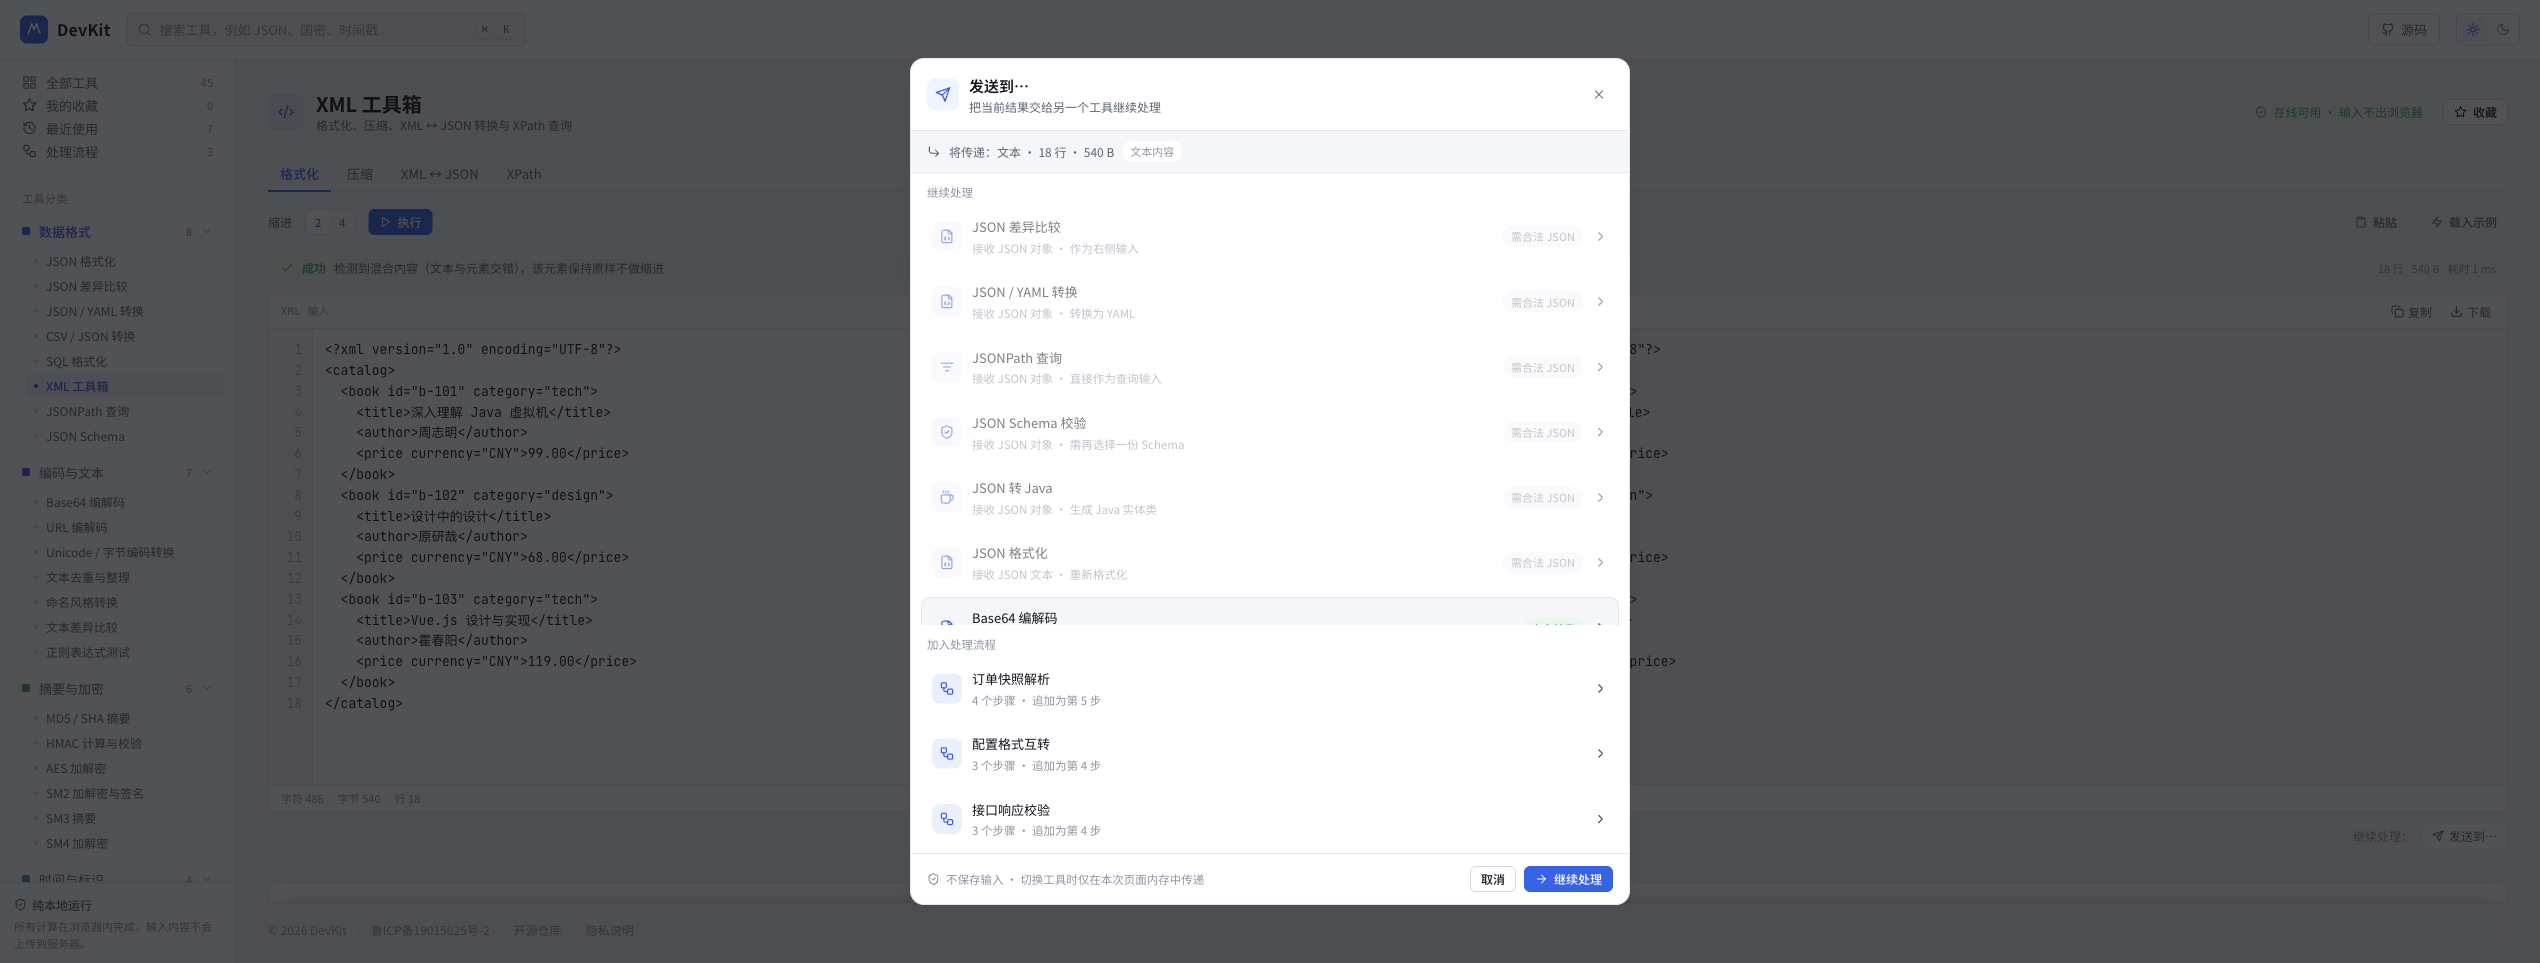
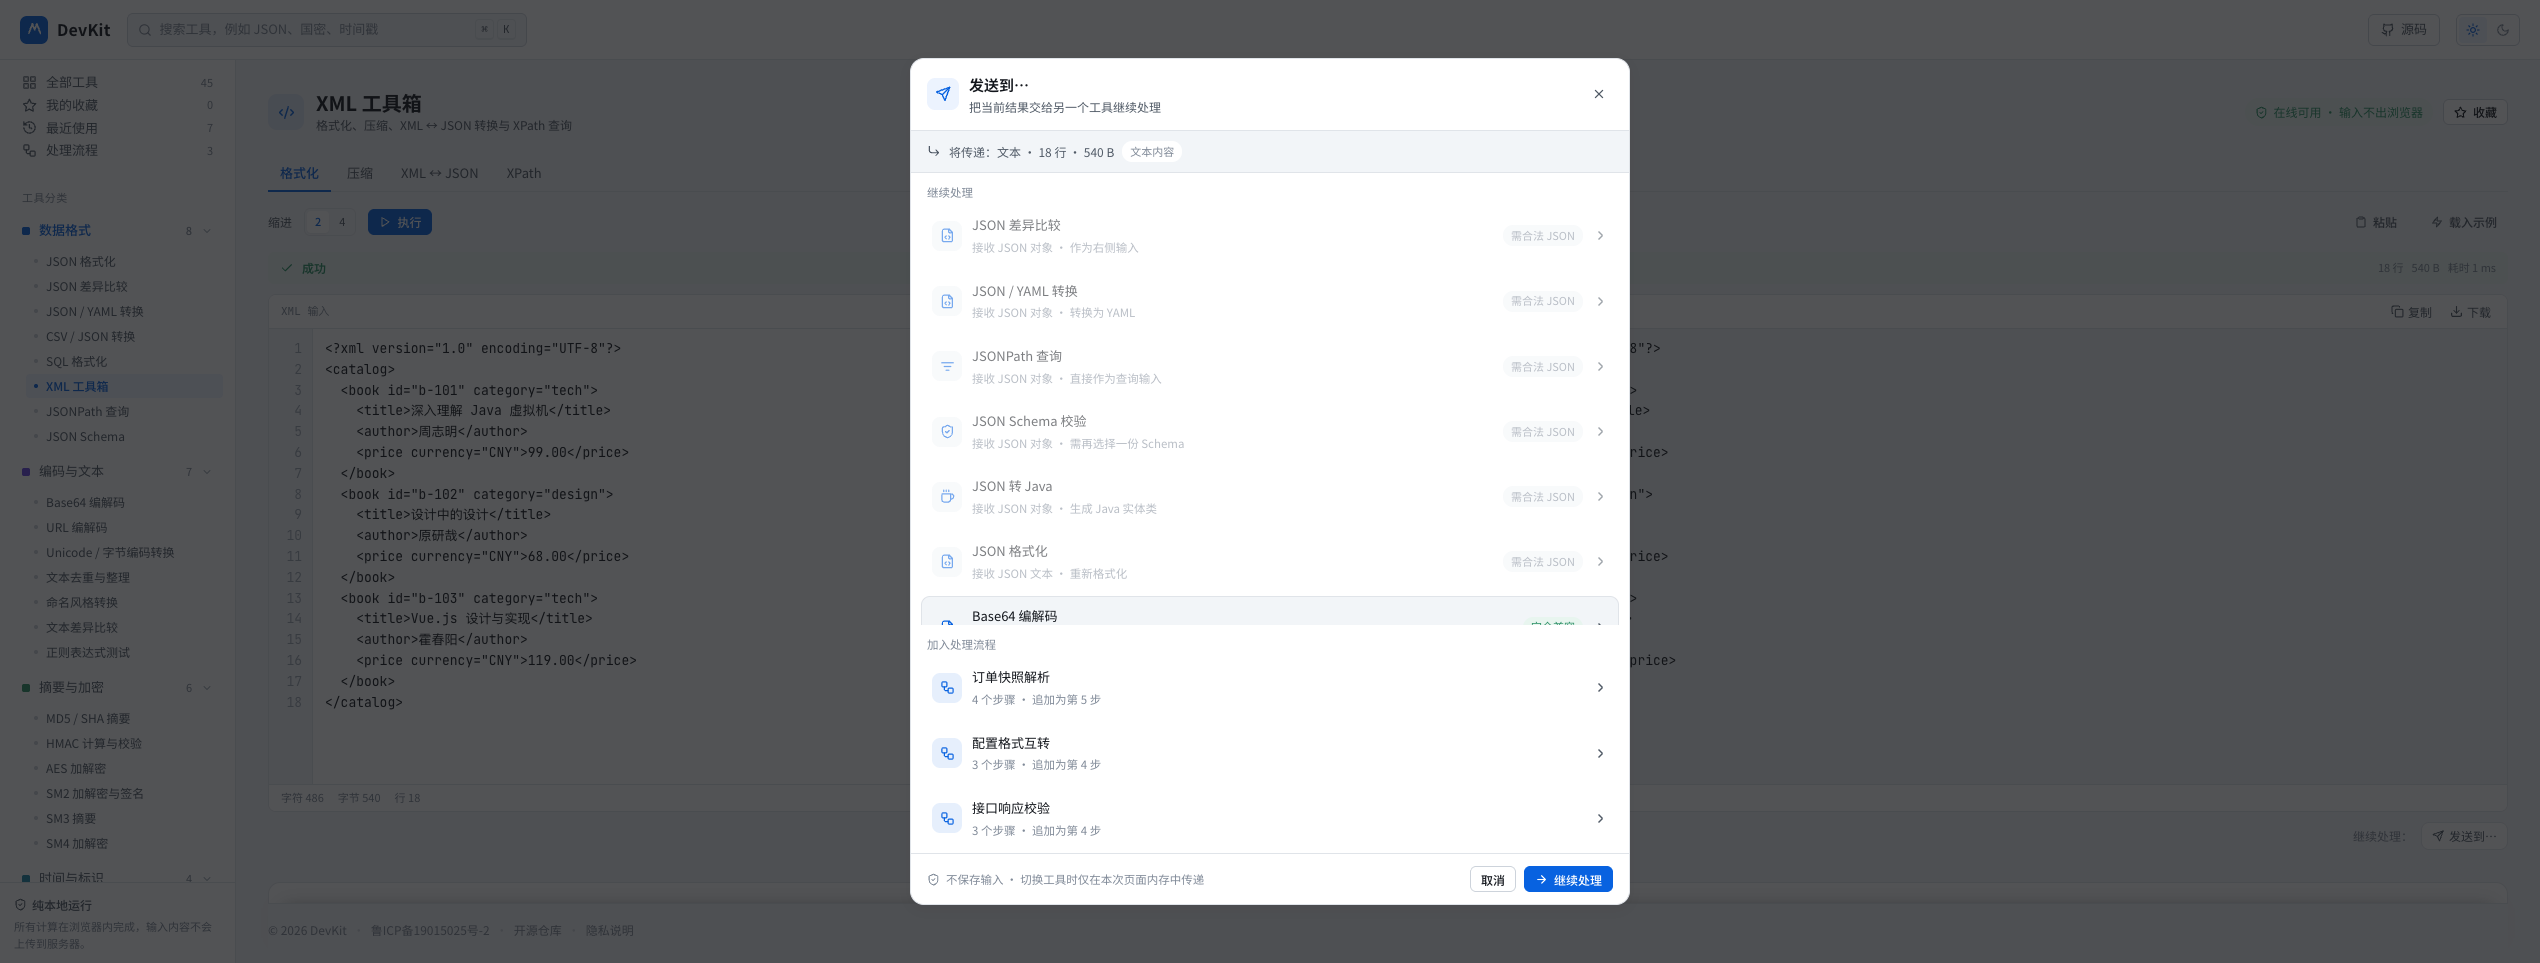
fix(datakit): 修掉复审三条残余——XPath 同值兄弟定位、XML 叶子空白、压缩括号空格
复审残余（均带回归用例）
- SQL 压缩：括号前后与格式化对齐——只在关键字后留空（IN (1, 2) / VALUES (…)），
  函数调用压成 count(*)、f(x, y)；新增 needsSpaceBetween，字面量规则不变。
- XML 空白：hasSignificantText 改为「纯空白只有在元素之间存在换行缩进时才可重排，
  其余一律保留」，叶子元素 <a> </a> / <a>\n</a> 不再被吃成 <a/>；
  同时只在元素确有元素子节点时才提示「检测到混合内容」，叶子文本元素不再误报。
- XPath 定位：新增 searchInSpan，文本 / 属性分支从 max(所属区间起点, 游标) 搜索、
  失败退回区间起点；<r>x<!--c-->x</r> 的 //r/text() 由 [3,4],[3,4] 变为 [3,4],[12,13]，
  同值属性与 <r>one<b>one</b>one</r> 的三段文本也各自定位。

测试与验收：npm test 119（原 115）、npm run test:dom 42（原 35）、typecheck 真实退出码 0、
generate 131 路由 + PWA precache 309、crawl 双视口各 68 路由 0 pageerror / 0 横向溢出、
三条 e2e（receivers / fixes / append_once）重跑退出 0 且前置条件全真。

diff --git a/devkit/app/utils/xml.ts b/devkit/app/utils/xml.ts
@@ -51,22 +51,26 @@ function escapeAttr(s: string): string {
   return escapeText(s).replace(/"/g, '&quot;')
 }
 
+/** 元素子节点里有没有元素（决定一段纯空白是不是「元素之间的缩进」） */
+function hasElementChildren(el: Element): boolean {
+  return Array.from(el.childNodes).some((n) => n.nodeType === 1)
+}
+
 /**
  * 元素是否含“有意义的文本”（即混合内容）：这类元素绝不重排空白，整段原样序列化。
  * - 含非空白文本、或含 CDATA → 有意义；
- * - 纯空白且元素没有子元素 → 视为可忽略（<a>   </a> 与 <a/> 同样处理）；
- * - 纯空白、不含换行、旁边又有子元素 → 有意义：<p><em>a</em> <em>b</em></p> 里的空格是词语分隔符，
- *   删掉会把 a、b 粘成一个词；只有含换行的空白才当作缩进丢弃。
+ * - 纯空白只有在「元素之间的换行缩进」时才算可重排（<a>\n  <b/>\n</a> → <a><b/></a>）；
+ * - 其余纯空白一律保留：<p><em>a</em> <em>b</em></p> 里的空格是词语分隔符，
+ *   而叶子元素里的空白（<a> </a>）删掉就是改数据。
  */
 function hasSignificantText(el: Element): boolean {
-  const hasElementChild = Array.from(el.childNodes).some((n) => n.nodeType === 1)
+  const hasChildren = hasElementChildren(el)
   return Array.from(el.childNodes).some((n) => {
-    if (n.nodeType !== 3 && n.nodeType !== 4) return false
     if (n.nodeType === 4) return true
+    if (n.nodeType !== 3) return false
     const value = n.nodeValue ?? ''
     if (value.trim() !== '') return true
-    if (!hasElementChild) return false
-    return !/[\r\n]/.test(value)
+    return !(hasChildren && /[\r\n]/.test(value))
   })
 }
 
@@ -99,7 +103,8 @@ function writeNode(node: Node, depth: number, indent: string, out: string[], war
 
   // 混合内容：一个空白都不动、一个换行都不加，保证 textContent 与原文一致
   if (hasSignificantText(el)) {
-    if (!warnings.includes('检测到混合内容（文本与元素交错），该元素保持原样不做缩进')) {
+    // 只有真「文本与元素交错」才提示；叶子元素里的空白属正常保留，不报混合内容
+    if (hasElementChildren(el) && !warnings.includes('检测到混合内容（文本与元素交错），该元素保持原样不做缩进')) {
       warnings.push('检测到混合内容（文本与元素交错），该元素保持原样不做缩进')
     }
     out.push(pad + serializeExact(el))
@@ -140,7 +145,7 @@ export function minifyXml(text: string): XmlResult {
   const walk = (el: Element) => {
     for (const child of Array.from(el.children)) walk(child)
     if (hasSignificantText(el)) {
-      if (!warnings.includes('检测到混合内容（文本与元素交错），该元素保持原样不做压缩')) {
+      if (hasElementChildren(el) && !warnings.includes('检测到混合内容（文本与元素交错），该元素保持原样不做压缩')) {
         warnings.push('检测到混合内容（文本与元素交错），该元素保持原样不做压缩')
       }
       return
@@ -383,6 +388,16 @@ function searchIn(source: string, needle: string, from: number, to: number): num
 }
 
 /**
+ * 在所属元素区间内定位一段内容：先从游标之后找，找不到再退回区间开头。
+ * 文本 / 属性分支若总从区间开头找，同一元素里两个值相同的兄弟文本节点
+ * （<r>x<!--c-->x</r>）会一起指向第一个，重复定位。
+ */
+function searchInSpan(source: string, needle: string, from: number, to: number, cursor: number): number {
+  const afterCursor = searchIn(source, needle, Math.max(from, cursor), to)
+  return afterCursor >= 0 ? afterCursor : searchIn(source, needle, from, to)
+}
+
+/**
  * 在源文本中定位节点：元素优先用扫描配对出的区间（嵌套同名也能各自对应自己），
  * 属性 / 文本节点优先在所属元素的区间内搜索，全部失败再退回原来的游标搜索。
  */
@@ -409,7 +424,7 @@ function locate(
     const needle = `${a.name}="${a.value}"`
     const owner = a.ownerElement ? spans?.get(a.ownerElement) : undefined
     if (owner) {
-      const inOwner = searchIn(source, needle, owner.from, owner.to)
+      const inOwner = searchInSpan(source, needle, owner.from, owner.to, cursor)
       if (inOwner >= 0) return { from: inOwner, to: inOwner + needle.length }
     }
     let at = source.indexOf(needle, cursor)
@@ -421,7 +436,7 @@ function locate(
   const parent = node.parentElement
   const parentSpan = parent ? spans?.get(parent) : undefined
   if (parentSpan) {
-    const inParent = searchIn(source, text, parentSpan.from, parentSpan.to)
+    const inParent = searchInSpan(source, text, parentSpan.from, parentSpan.to, cursor)
     if (inParent >= 0) return { from: inParent, to: inParent + text.length }
   }
   let at = source.indexOf(text, cursor)

diff --git a/devkit/app/utils/sql.ts b/devkit/app/utils/sql.ts
@@ -498,6 +498,17 @@ export function formatSql(sql: string, opts: SqlFormatOptions): SqlFormatResult 
 }
 
 /**
+ * 两个 token 之间要不要留空格：与格式化同一条规则——括号只在关键字之后留
+ * （IN (…) / VALUES (…)），函数调用 count(*) 后面不留；其余按标点集合判定。
+ */
+function needsSpaceBetween(prev: Tok, next: Tok): boolean {
+  if (next.text === '(') return prev.type === 'word' && KEYWORDS.has(prev.text.toLowerCase())
+  if (NO_SPACE_BEFORE.has(next.text)) return false
+  if (NO_SPACE_AFTER.has(prev.text)) return false
+  return true
+}
+
+/**
  * 压缩成一行：移除注释，并且只在 token 之间决定空白。
  * 字符串 / 标识符 token 一律原样输出——不对拼接后的整段文本跑空白或标点正则，
  * 否则字面量内部的空格、逗号、点号会被一起改写（'a   b' → 'a b' 这类静默改数据）。
@@ -509,7 +520,7 @@ export function minifySql(sql: string, dialect: SqlDialect): SqlFormatResult {
   let text = ''
   let prev: Tok | null = null
   for (const t of kept) {
-    if (prev && !NO_SPACE_BEFORE.has(t.text) && !NO_SPACE_AFTER.has(prev.text)) text += ' '
+    if (prev && needsSpaceBetween(prev, t)) text += ' '
     text += t.text
     prev = t
   }
